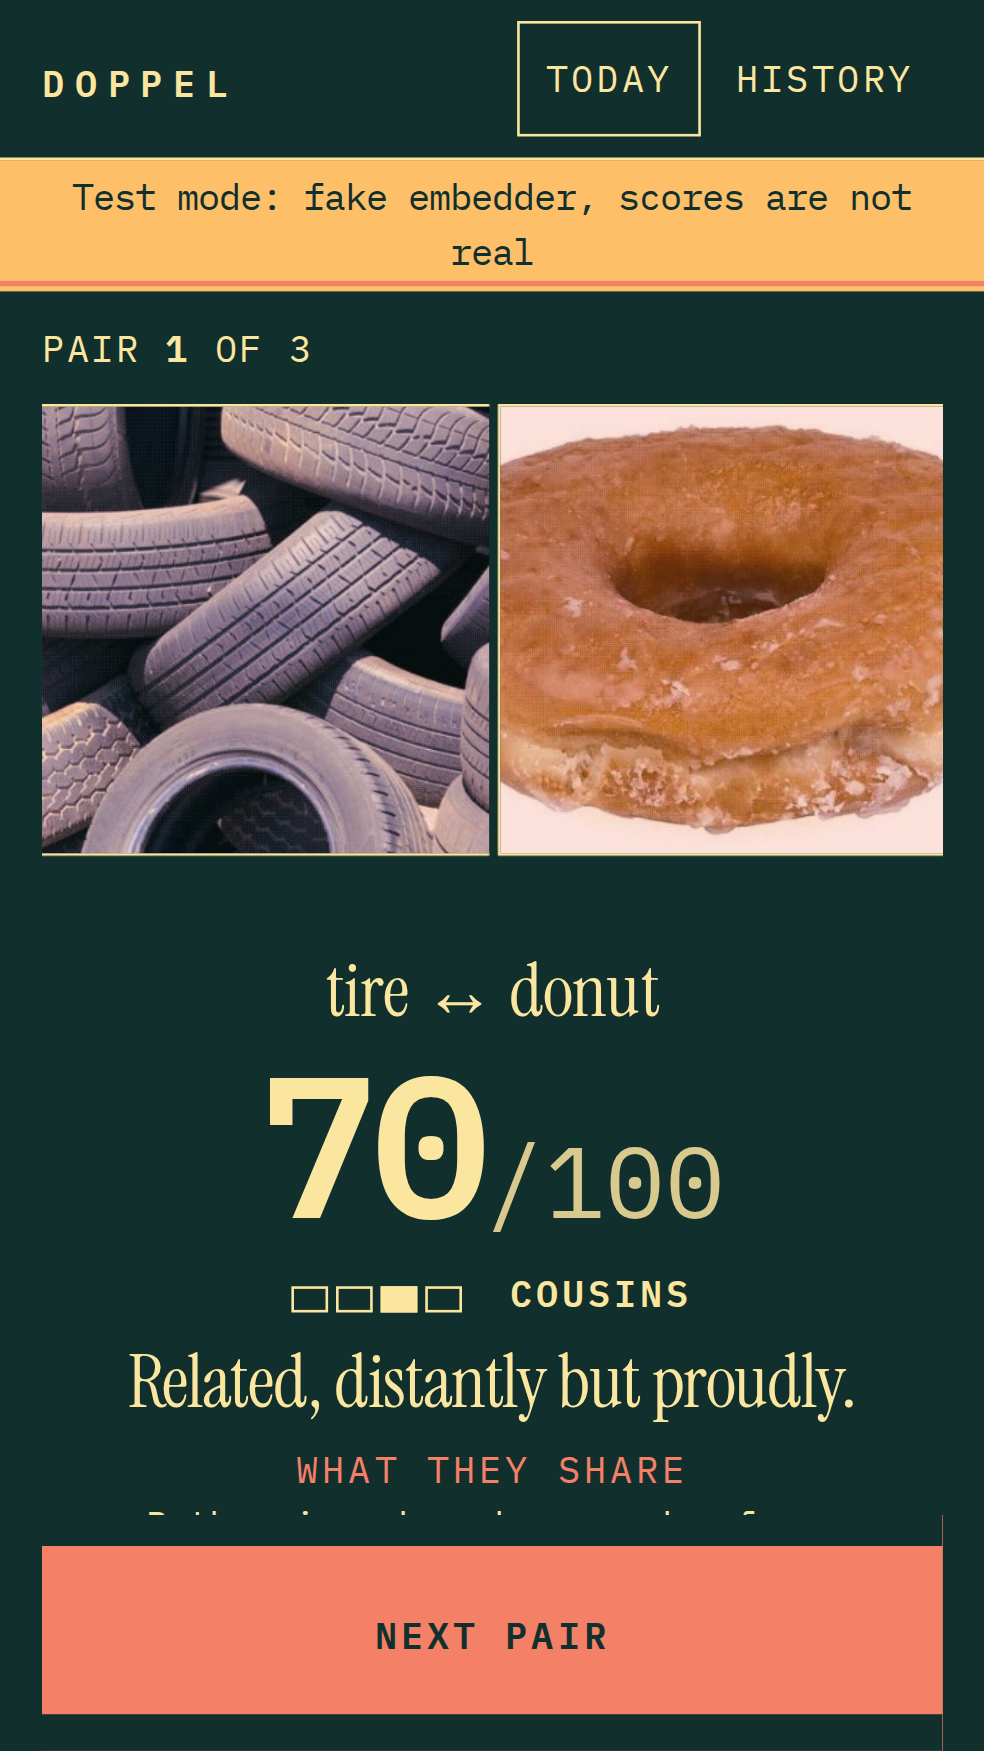
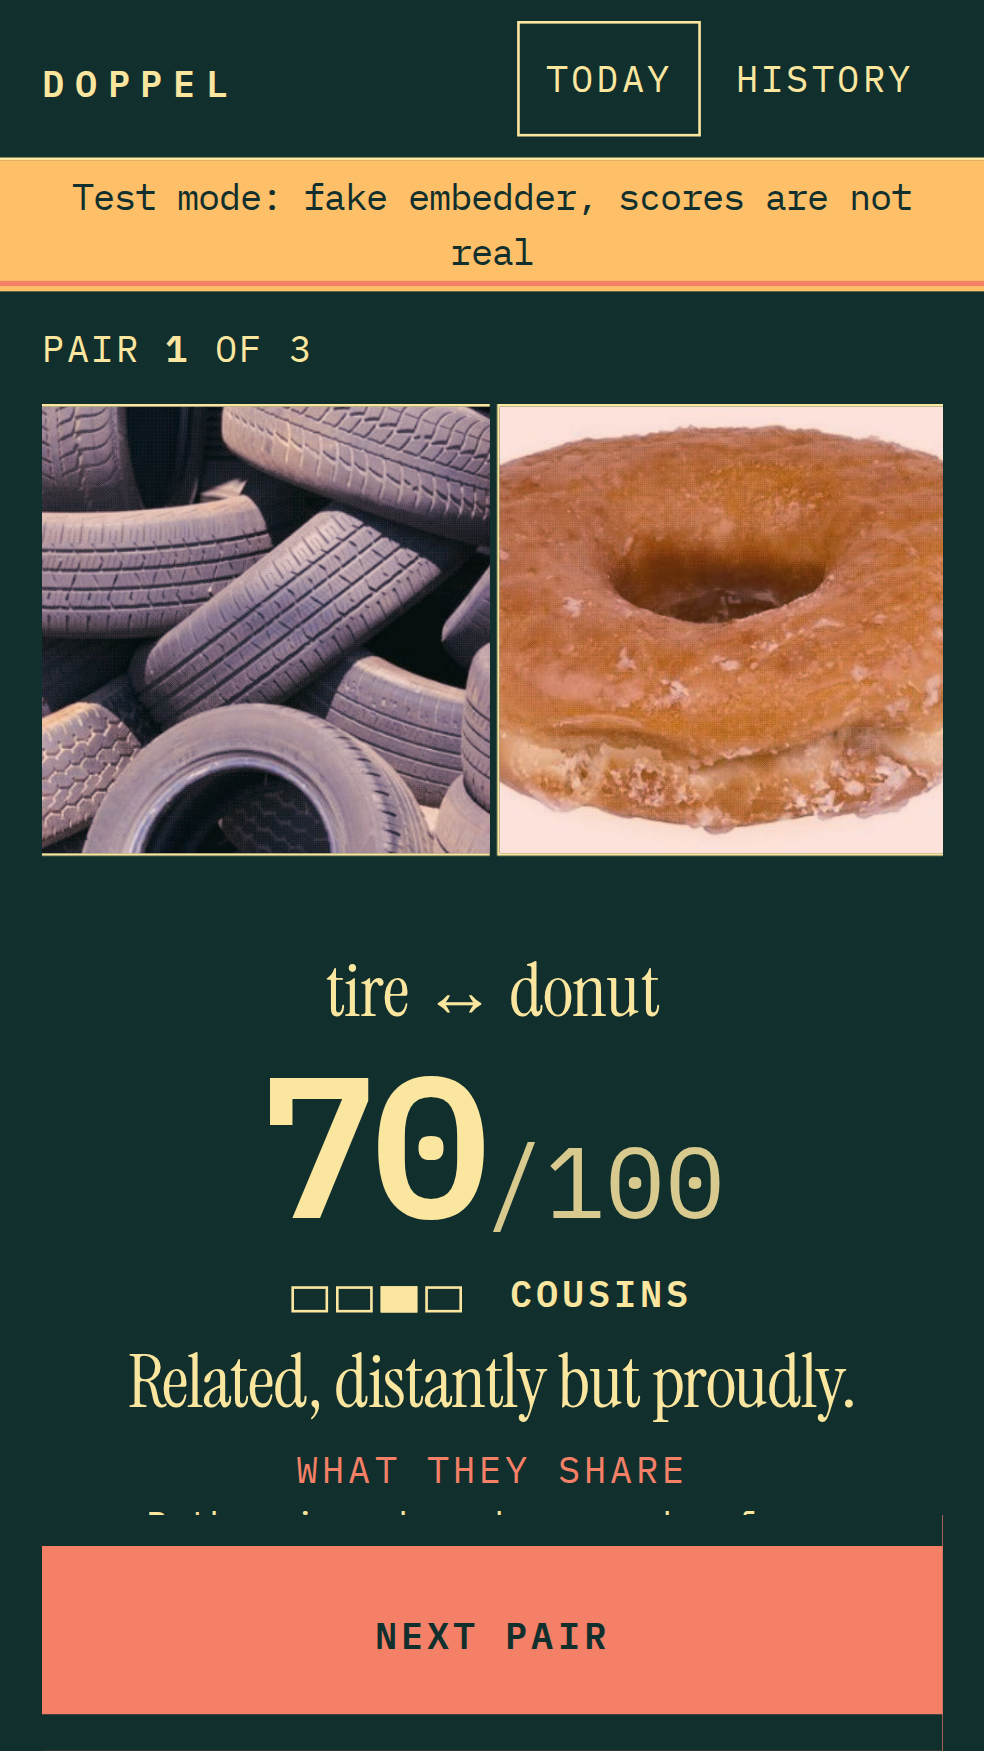
G2: stretch bonus for visual twins of very different kinds

diff --git a/web/src/twin.ts b/web/src/twin.ts
@@ -20,6 +20,8 @@ export interface TwinConfig {
   minTopSim: number; // a photo whose top label is at least this close is never "uncertain"
   attrZ: number; // shared attribute threshold (z-score, both photos)
   attr: { labels: string[]; mu: number[]; sd: number[] };
+  /** G2: bonus for a visual twin between very different kinds of thing. */
+  stretch?: { min: number; full: number; maxBonus: number };
   /** Per vocab row: mean/sd of photo->label cosine over the calibration photos (G1 ranking). */
   labelStats?: { mu: number[]; sd: number[] };
 }
@@ -289,18 +291,45 @@ export function verdictLine(b: Band, seed: string): string {
   return lines[hash(seed) % lines.length];
 }
 
+/**
+ * Stretch bonus (G2): how different the two kinds of thing are, 1 - label text sim.
+ * Earned only by a visual Cousins-or-better pair with stretch >= min; scales to
+ * maxBonus at `full`. The final score is capped at 100.
+ */
+export function stretchBonus(visual: number, stretch: number, cfg: Pick<TwinConfig, "bands" | "stretch"> = TWIN): number {
+  const st = cfg.stretch;
+  if (!st || !Number.isFinite(visual) || !Number.isFinite(stretch)) return 0;
+  if (visual < cfg.bands.cousins || stretch < st.min) return 0;
+  const b = Math.round((st.maxBonus * (stretch - st.min)) / (st.full - st.min));
+  // at least +1 once earned, at most maxBonus, and never more than the room left under 100
+  return Math.min(Math.max(1, Math.min(st.maxBonus, b)), 100 - visual);
+}
+
+export const STRETCH_LINE = "these have nothing in common.";
+
 /** Everything the reveal needs for one pair. */
 export interface PairResult {
   sim: number;
-  score: number;
+  score: number; // final: visual + bonus, capped at 100
+  visual?: number; // the photo-photo score alone
+  bonus?: number; // stretch bonus (G2), 0 when not earned
   band: Band;
   shared: string[];
   verdict: string;
 }
 
-export function judgePair(a: { vector: ArrayLike<number>; reading: Reading }, b: { vector: ArrayLike<number>; reading: Reading }, seed: string, cfg: TwinConfig = TWIN): PairResult {
+export function judgePair(
+  a: { vector: ArrayLike<number>; reading: Reading },
+  b: { vector: ArrayLike<number>; reading: Reading },
+  seed: string,
+  cfg: TwinConfig = TWIN,
+  vocab?: LabelVocab,
+): PairResult {
   const sim = cosine(a.vector, b.vector);
-  const score = twinScore(sim, cfg);
+  const visual = twinScore(sim, cfg);
+  const stretch = vocab ? Math.min(1, Math.max(0, 1 - labelSim(vocab, a.reading.index, b.reading.index))) : 0;
+  const bonus = stretchBonus(visual, stretch, cfg);
+  const score = Math.min(100, visual + bonus);
   const bd = band(score, cfg);
-  return { sim, score, band: bd, shared: sharedAttributes(a.reading.attrZ, b.reading.attrZ, cfg), verdict: verdictLine(bd, seed) };
+  return { sim, score, visual, bonus, band: bd, shared: sharedAttributes(a.reading.attrZ, b.reading.attrZ, cfg), verdict: verdictLine(bd, seed) };
 }

diff --git a/web/tests/unit/twin.test.ts b/web/tests/unit/twin.test.ts
@@ -240,3 +240,32 @@ describe("suggestTwins (G1)", () => {
     expect(suggestTwins(photo, r, vocab, cfg)).toEqual(s); // deterministic
   });
 });
+
+describe("stretch bonus (G2)", () => {
+  const sc = { bands: { uncanny: 80, cousins: 50, distant: 30 }, stretch: { min: 0.2, full: 0.3, maxBonus: 10 } };
+  it("is earned only by Cousins-or-better pairs of very different things", async () => {
+    const { stretchBonus } = await import("../../src/twin");
+    expect(stretchBonus(49, 0.3, sc)).toBe(0); // not visually close enough
+    expect(stretchBonus(70, 0.19, sc)).toBe(0); // too similar as things
+    expect(stretchBonus(70, 0.2, sc)).toBe(1); // at the threshold: at least +1
+    expect(stretchBonus(70, 0.25, sc)).toBe(5);
+    expect(stretchBonus(70, 0.3, sc)).toBe(10);
+    expect(stretchBonus(70, 0.9, sc)).toBe(10); // capped at maxBonus
+  });
+  it("never pushes the score past 100", async () => {
+    const { stretchBonus } = await import("../../src/twin");
+    expect(stretchBonus(96, 0.3, sc)).toBe(4);
+    expect(stretchBonus(100, 0.3, sc)).toBe(0); // no room left: no "+1" that changes nothing
+    expect(stretchBonus(NaN, 0.3, sc)).toBe(0);
+    expect(stretchBonus(70, 0.3, { bands: sc.bands })).toBe(0); // no config, no bonus
+  });
+  it("judgePair adds the bonus to the final score and keeps the visual score", async () => {
+    const { judgePair } = await import("../../src/twin");
+    const a = { vector: e(1, 0, 0, 0, 1, 0), reading: readPhoto(e(1, 0, 0, 0, 1, 0), vocab, cfg) };
+    const b = { vector: e(0, 1, 0, 0, 1, 0), reading: readPhoto(e(0, 1, 0, 0, 1, 0), vocab, cfg) };
+    const r = judgePair(a, b, "s", { ...cfg, lo: 0.2, hi: 0.6, stretch: { min: 0.1, full: 0.5, maxBonus: 10 } }, vocab);
+    expect(r.visual).toBe(75);
+    expect(r.bonus).toBeGreaterThan(0);
+    expect(r.score).toBe(Math.min(100, r.visual! + r.bonus!));
+  });
+});

diff --git a/web/src/ui/screens.ts b/web/src/ui/screens.ts
@@ -2,7 +2,7 @@
 // the pair frame, two square slots side by side. Empty, it explains the game;
 // then the first print fills the left slot, the walk counts down in the right
 // one, the twin fills it, and at the reveal the two prints slide together.
-import { band, BANDS, BAND_NAMES, NOTHING_SHARED, type Band } from "../twin";
+import { band, BANDS, BAND_NAMES, NOTHING_SHARED, STRETCH_LINE, type Band } from "../twin";
 import type { PairState } from "../day";
 import { PAIRS_PER_DAY } from "../day";
 import type { WalkStatus } from "../walk";
@@ -171,6 +171,7 @@ export function revealView(pair: number, p: Required<Pick<PairState, "first" | "
       <p class="labels" data-testid="labels">${esc(p.first.label)} <span aria-label="and">↔</span> ${esc(p.twin.label)}</p>
       <p class="score" data-testid="score" data-value="${r.score}"><span class="n">${r.score}</span><span class="of">/100</span></p>
       <p class="band">${bandMarks(r.band)} <b data-testid="band">${BAND_NAMES[r.band].toUpperCase()}</b></p>
+      ${r.bonus ? `<p class="stretch" data-testid="stretch"><b>+${r.bonus}</b> Stretch: ${STRETCH_LINE}</p>` : ""}
       <p class="voice verdict" data-testid="verdict">${esc(r.verdict)}</p>
       <p class="shared" data-testid="shared"><span class="label">What they share</span> ${r.shared.length ? `Both: ${r.shared.map(esc).join(" · ")}` : NOTHING_SHARED}</p>
       <div class="dock"><button class="btn btn-shoot" id="next" type="button">${last ? "See today" : "Next pair"}</button></div>

diff --git a/web/src/model-eval.ts b/web/src/model-eval.ts
@@ -40,11 +40,11 @@ async function main() {
   const pairs = ["twins", "strangers", "same-kind"].flatMap((set) =>
     pairsOf(set).map(([a, b]) => {
       const A = shots[a], B = shots[b];
-      const r = judgePair(A, B, `eval#${a}`);
+      const r = judgePair(A, B, `eval#${a}`, undefined, vocab);
       return {
         set, a, b, labelA: A.reading.label, labelB: B.reading.label, marginA: A.reading.margin, marginB: B.reading.margin,
         checkA: checkShot(A.reading) ?? null, checkB: checkShot(B.reading) ?? null, altA: A.reading.alt ?? null, altB: B.reading.alt ?? null, problem: checkTwin(A, B, vocab) ?? null,
-        sim: r.sim, score: r.score, band: r.band, shared: r.shared, looksA: topAttributes(A.reading.attrZ), triesA: suggestTwins(A.vector, A.reading, vocab), triesB: suggestTwins(B.vector, B.reading, vocab),
+        sim: r.sim, score: r.score, visual: r.visual, bonus: r.bonus, band: r.band, shared: r.shared, looksA: topAttributes(A.reading.attrZ), triesA: suggestTwins(A.vector, A.reading, vocab), triesB: suggestTwins(B.vector, B.reading, vocab),
       };
     }),
   );

diff --git a/web/src/main.ts b/web/src/main.ts
@@ -297,7 +297,7 @@ async function takePhoto(file: File, which: "first" | "twin", onStatus: (s: stri
     if (problem) return (onStatus(""), onRefused(PROBLEM_TEXT[problem]), false);
     const id = newId();
     await putShot({ id, day: day!.day, ts: now, vector, reading, thumbBlob });
-    const result = judgePair({ vector: first.vector, reading: first.reading }, { vector, reading }, `${day!.day}#${day!.pairs.length}`);
+    const result = judgePair({ vector: first.vector, reading: first.reading }, { vector, reading }, `${day!.day}#${day!.pairs.length}`, undefined, vocab);
     day = acceptTwin(day!, { id, ts: now, label: reading.label }, result, now);
     stopGps();
   }

diff --git a/web/tests/unit/screens.test.ts b/web/tests/unit/screens.test.ts
@@ -1,0 +1,15 @@
+import { describe, expect, it } from "vitest";
+import { revealView } from "../../src/ui/screens";
+
+const pair = (bonus: number) => ({
+  first: { id: "a", ts: 0, label: "tire" },
+  twin: { id: "b", ts: 0, label: "donut" },
+  result: { sim: 0.8, score: 70 + bonus, visual: 70, bonus, band: "cousins" as const, shared: ["round"], verdict: "x" },
+});
+
+describe("reveal: stretch line", () => {
+  it("shows the bonus line only when earned", () => {
+    expect(revealView(1, pair(8), false)).toContain("<b>+8</b> Stretch: these have nothing in common.");
+    expect(revealView(1, pair(0), false)).not.toContain("Stretch");
+  });
+});

diff --git a/web/src/style.css b/web/src/style.css
@@ -94,6 +94,7 @@ main { max-width: 520px; margin: 0 auto; padding: 0 var(--gutter); outline: none
 .marks { display: inline-flex; gap: 3px; margin-right: 8px; vertical-align: middle; }
 .marks i { width: 14px; height: 10px; border: 1px solid var(--fg); display: block; }
 .marks i.on { background: var(--fg); }
+.stretch { text-align: center; margin: 6px 0 0; color: var(--accent); }
 .verdict { text-align: center; font-size: var(--t-m); margin: 8px 0 4px; }
 .shared { text-align: center; margin: 4px 0 0; }
 .shared .label { display: block; }

diff --git a/tools/twin_calibrate.py b/tools/twin_calibrate.py
@@ -188,6 +188,8 @@ def main():
         out["margin"] = 0.003  # top-1 minus best label of a different kind (text sim < synonymTextSim)
         out["synonymTextSim"] = 0.85  # labels this close are near-synonyms: shown together ("cloud / sky"), never rivals (F1)
         out["minTopSim"] = 0.67  # uncertain needs a small margin AND a top-label sim below this; lowest clear photo: 0.681 (F1)
+        out["stretch"] = {"min": 0.205, "full": 0.30, "maxBonus": 10,
+                          "source": "stretch = 1 - label text sim; min chosen so 3 of 8 fixture twins earn it (G2); full ~ p99 of all thing-pair stretches (0.304)"}
         out["attrZ"] = 1.0  # an attribute is shared when both photos are >= 1.0 sd above its mean
         save_candidates(diff_pairs[:10], lo, hi)
         (ROOT / "data" / "twin-scoring.json").write_text(json.dumps(out, indent=1) + "\n")

diff --git a/docs/eval.md b/docs/eval.md
@@ -2,13 +2,13 @@
 
 Real EmbeddingGemma 2 (text+vision 440M, LiteRT-LM, WebGPU) in headless Microsoft Edge on amd gcn-5, over the CC0 fixtures in `web/tests/fixtures/`, judged by the functions the app ships (`web/src/twin.ts`, constants in `data/twin-scoring.json`). Generated by `npm run test:model` (`web/scripts/model-eval.mjs`).
 
-Commit `864d754`, 2026-10-11 06:12 UTC.
+Commit `8b9057c`, 2026-10-11 06:17 UTC.
 
 ## Pass criteria
 
 | Criterion | Result | |
 |---|---|---|
-| Mean twin score ≥ mean stranger score + 20 | 58.4 vs 19.9 | PASS |
+| Mean twin score ≥ mean stranger score + 20 | 58.6 vs 19.9 | PASS |
 | ≥ 6 of 8 twins score Cousins or better | 6 of 8 | PASS |
 | ≥ 6 of 8 strangers score Distant or worse | 8 of 8 | PASS |
 | ≥ 3 of 4 same-kind pairs rejected as same kind | 3 of 4 | PASS |
@@ -24,9 +24,9 @@ Commit `864d754`, 2026-10-11 06:12 UTC.
 | cloud ↔ cotton | cloud / sky ↔ cotton / cotton candy | 0.807 | **85** | Uncanny | fluffy · puffy · white | – |
 | donut ↔ tire | donut / bagel ↔ tire / wheel | 0.694 | **18** | Strangers | ring-shaped | – |
 | elephant-skin ↔ tree-bark | elephant skin / snake skin ↔ tree bark / tree trunk | 0.856 | **100** | Uncanny | ridged · layered · wrinkled | – |
-| broccoli ↔ moss | broccoli / cauliflower ↔ moss / lichen | 0.749 | **50** | Cousins | green · leafy | – |
+| broccoli ↔ moss | broccoli / cauliflower ↔ moss / lichen | 0.749 | **51** (50 +1 stretch) | Cousins | green · leafy | – |
 | artichoke ↔ pinecone | artichoke ↔ pinecone / pine needles | 0.810 | **86** | Uncanny | cone-shaped · spiky · scaly | – |
-| brick-wall ↔ chocolate-bar | brick wall / stone wall ↔ chocolate bar | 0.770 | **62** | Cousins | brown · checkered · layered | – |
+| brick-wall ↔ chocolate-bar | brick wall / stone wall ↔ chocolate bar | 0.770 | **63** (62 +1 stretch) | Cousins | brown · checkered · layered | – |
 | hexagonal-tiles ↔ honeycomb | hexagonal tiles / honeycomb ↔ honeycomb / bee | 0.776 | **66** | Cousins | hexagonal · grid-like · checkered | – |
 | striped-awning ↔ zebra | striped awning ↔ zebra | 0.659 | **0** | Strangers | striped · checkered | – |
 
@@ -47,7 +47,7 @@ Commit `864d754`, 2026-10-11 06:12 UTC.
 
 | Pair | Doppel sees | cosine | Score | Band | What they share | Rule |
 |---|---|---|---|---|---|---|
-| rock-a ↔ rock-b | boulder / rock ↔ ocean waves | 0.804 | **82** | Uncanny | rough | – |
+| rock-a ↔ rock-b | boulder / rock ↔ ocean waves | 0.804 | **89** (82 +7 stretch) | Uncanny | rough | – |
 | leaf-a ↔ leaf-b | leaf ↔ leaf / fern | 0.797 | **78** | Cousins | green · leafy · wrinkled | same-kind |
 | bench-a ↔ bench-b | bench / picnic table ↔ bench / picnic table | 0.838 | **100** | Uncanny | wooden | same-kind |
 | tree-a ↔ tree-b | tree / tree roots ↔ tree | 0.876 | **100** | Uncanny | Not much, honestly. | same-kind |
@@ -84,6 +84,6 @@ Commit `864d754`, 2026-10-11 06:12 UTC.
 
 ## Timings (same run, not CPU-throttled)
 
-- Model load from the browser cache: 7801 ms
-- Photo embed: median 1717 ms, max 1829 ms over 44 photos
-- Main-thread long tasks while embedding 44 photos: 1, longest 165 ms, total 165 ms
+- Model load from the browser cache: 6503 ms
+- Photo embed: median 1734 ms, max 1834 ms over 44 photos
+- Main-thread long tasks while embedding 44 photos: 1, longest 190 ms, total 190 ms
